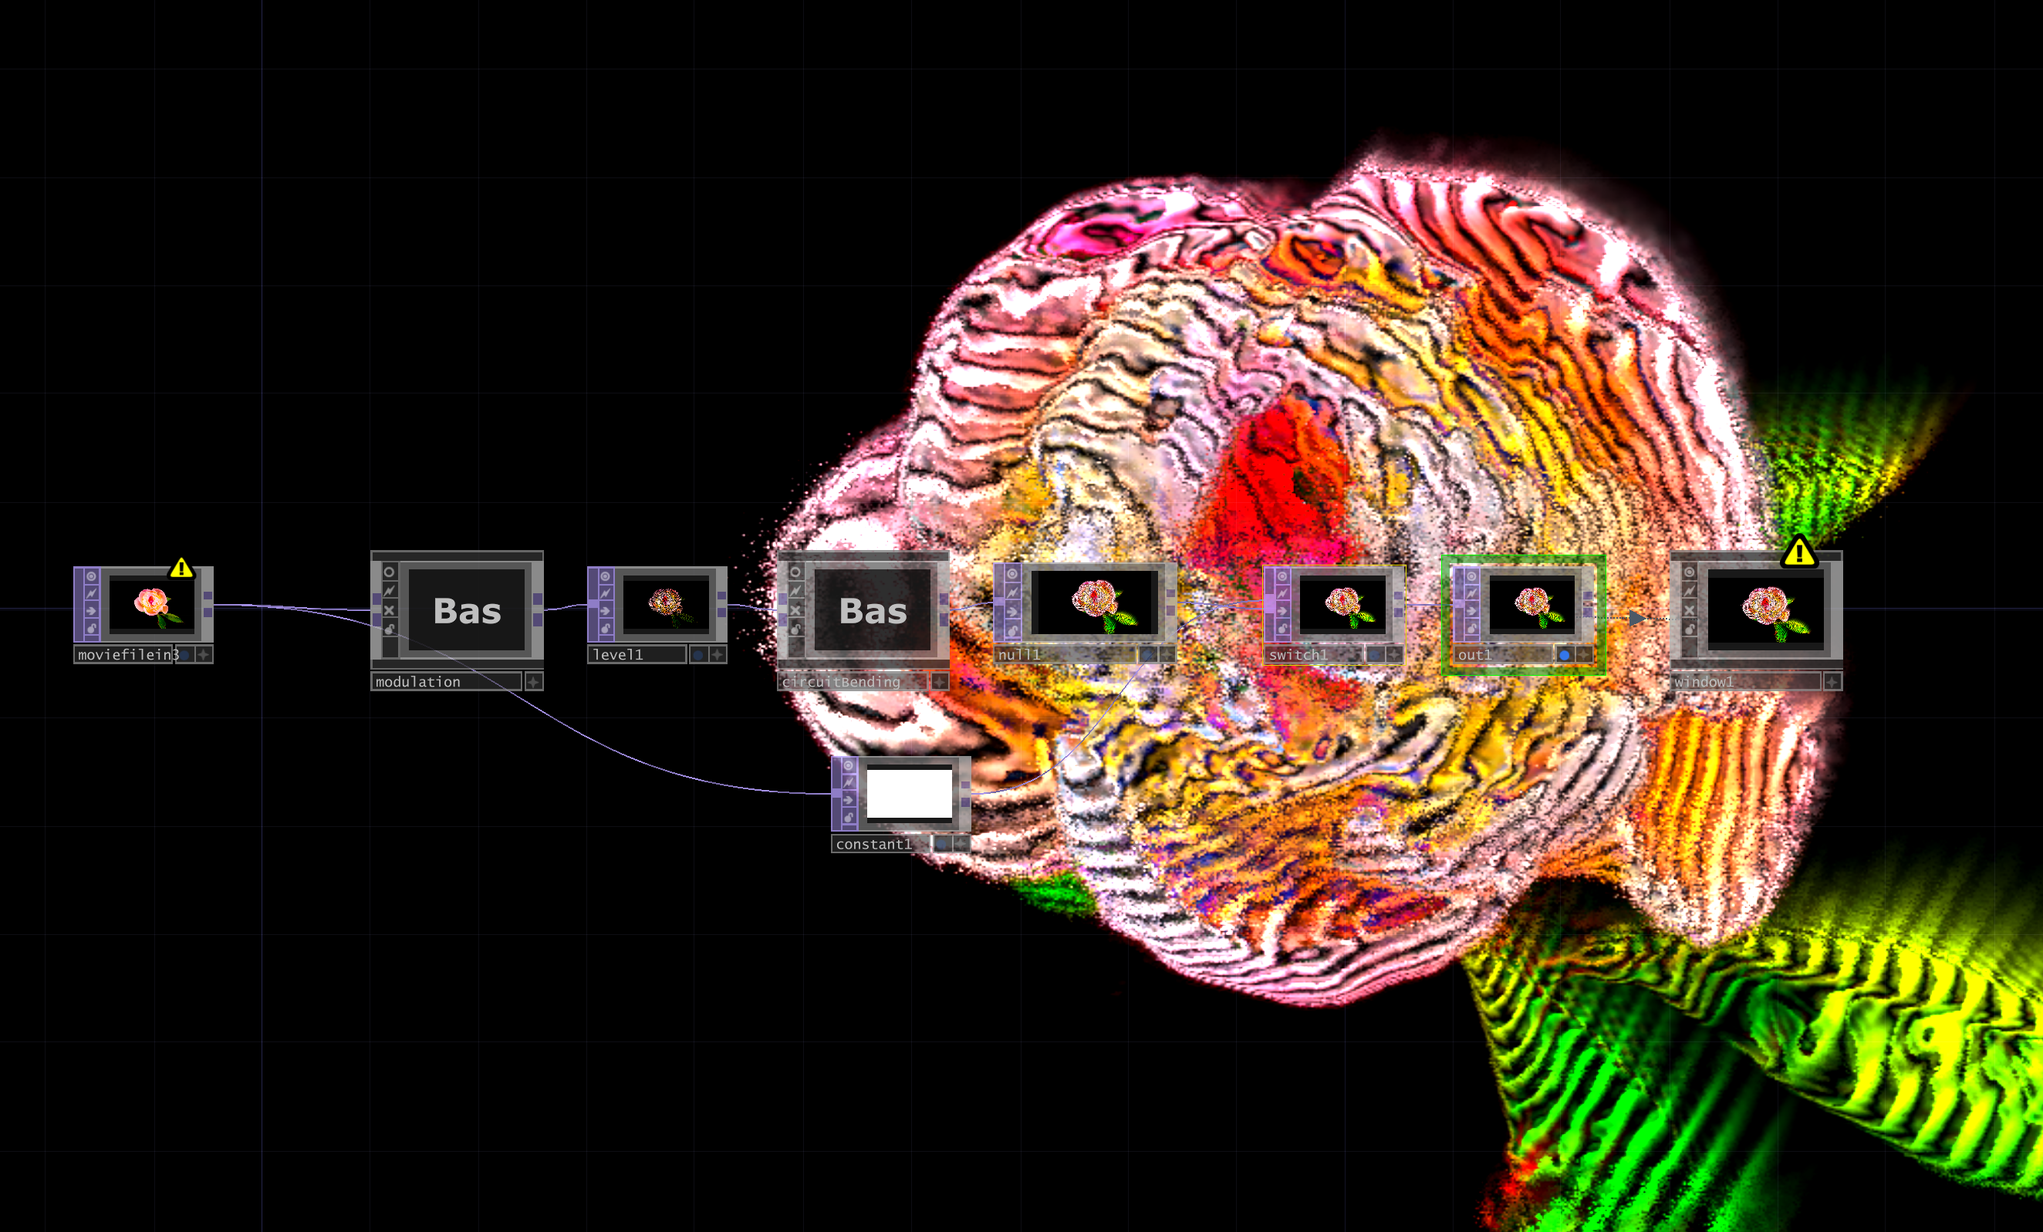
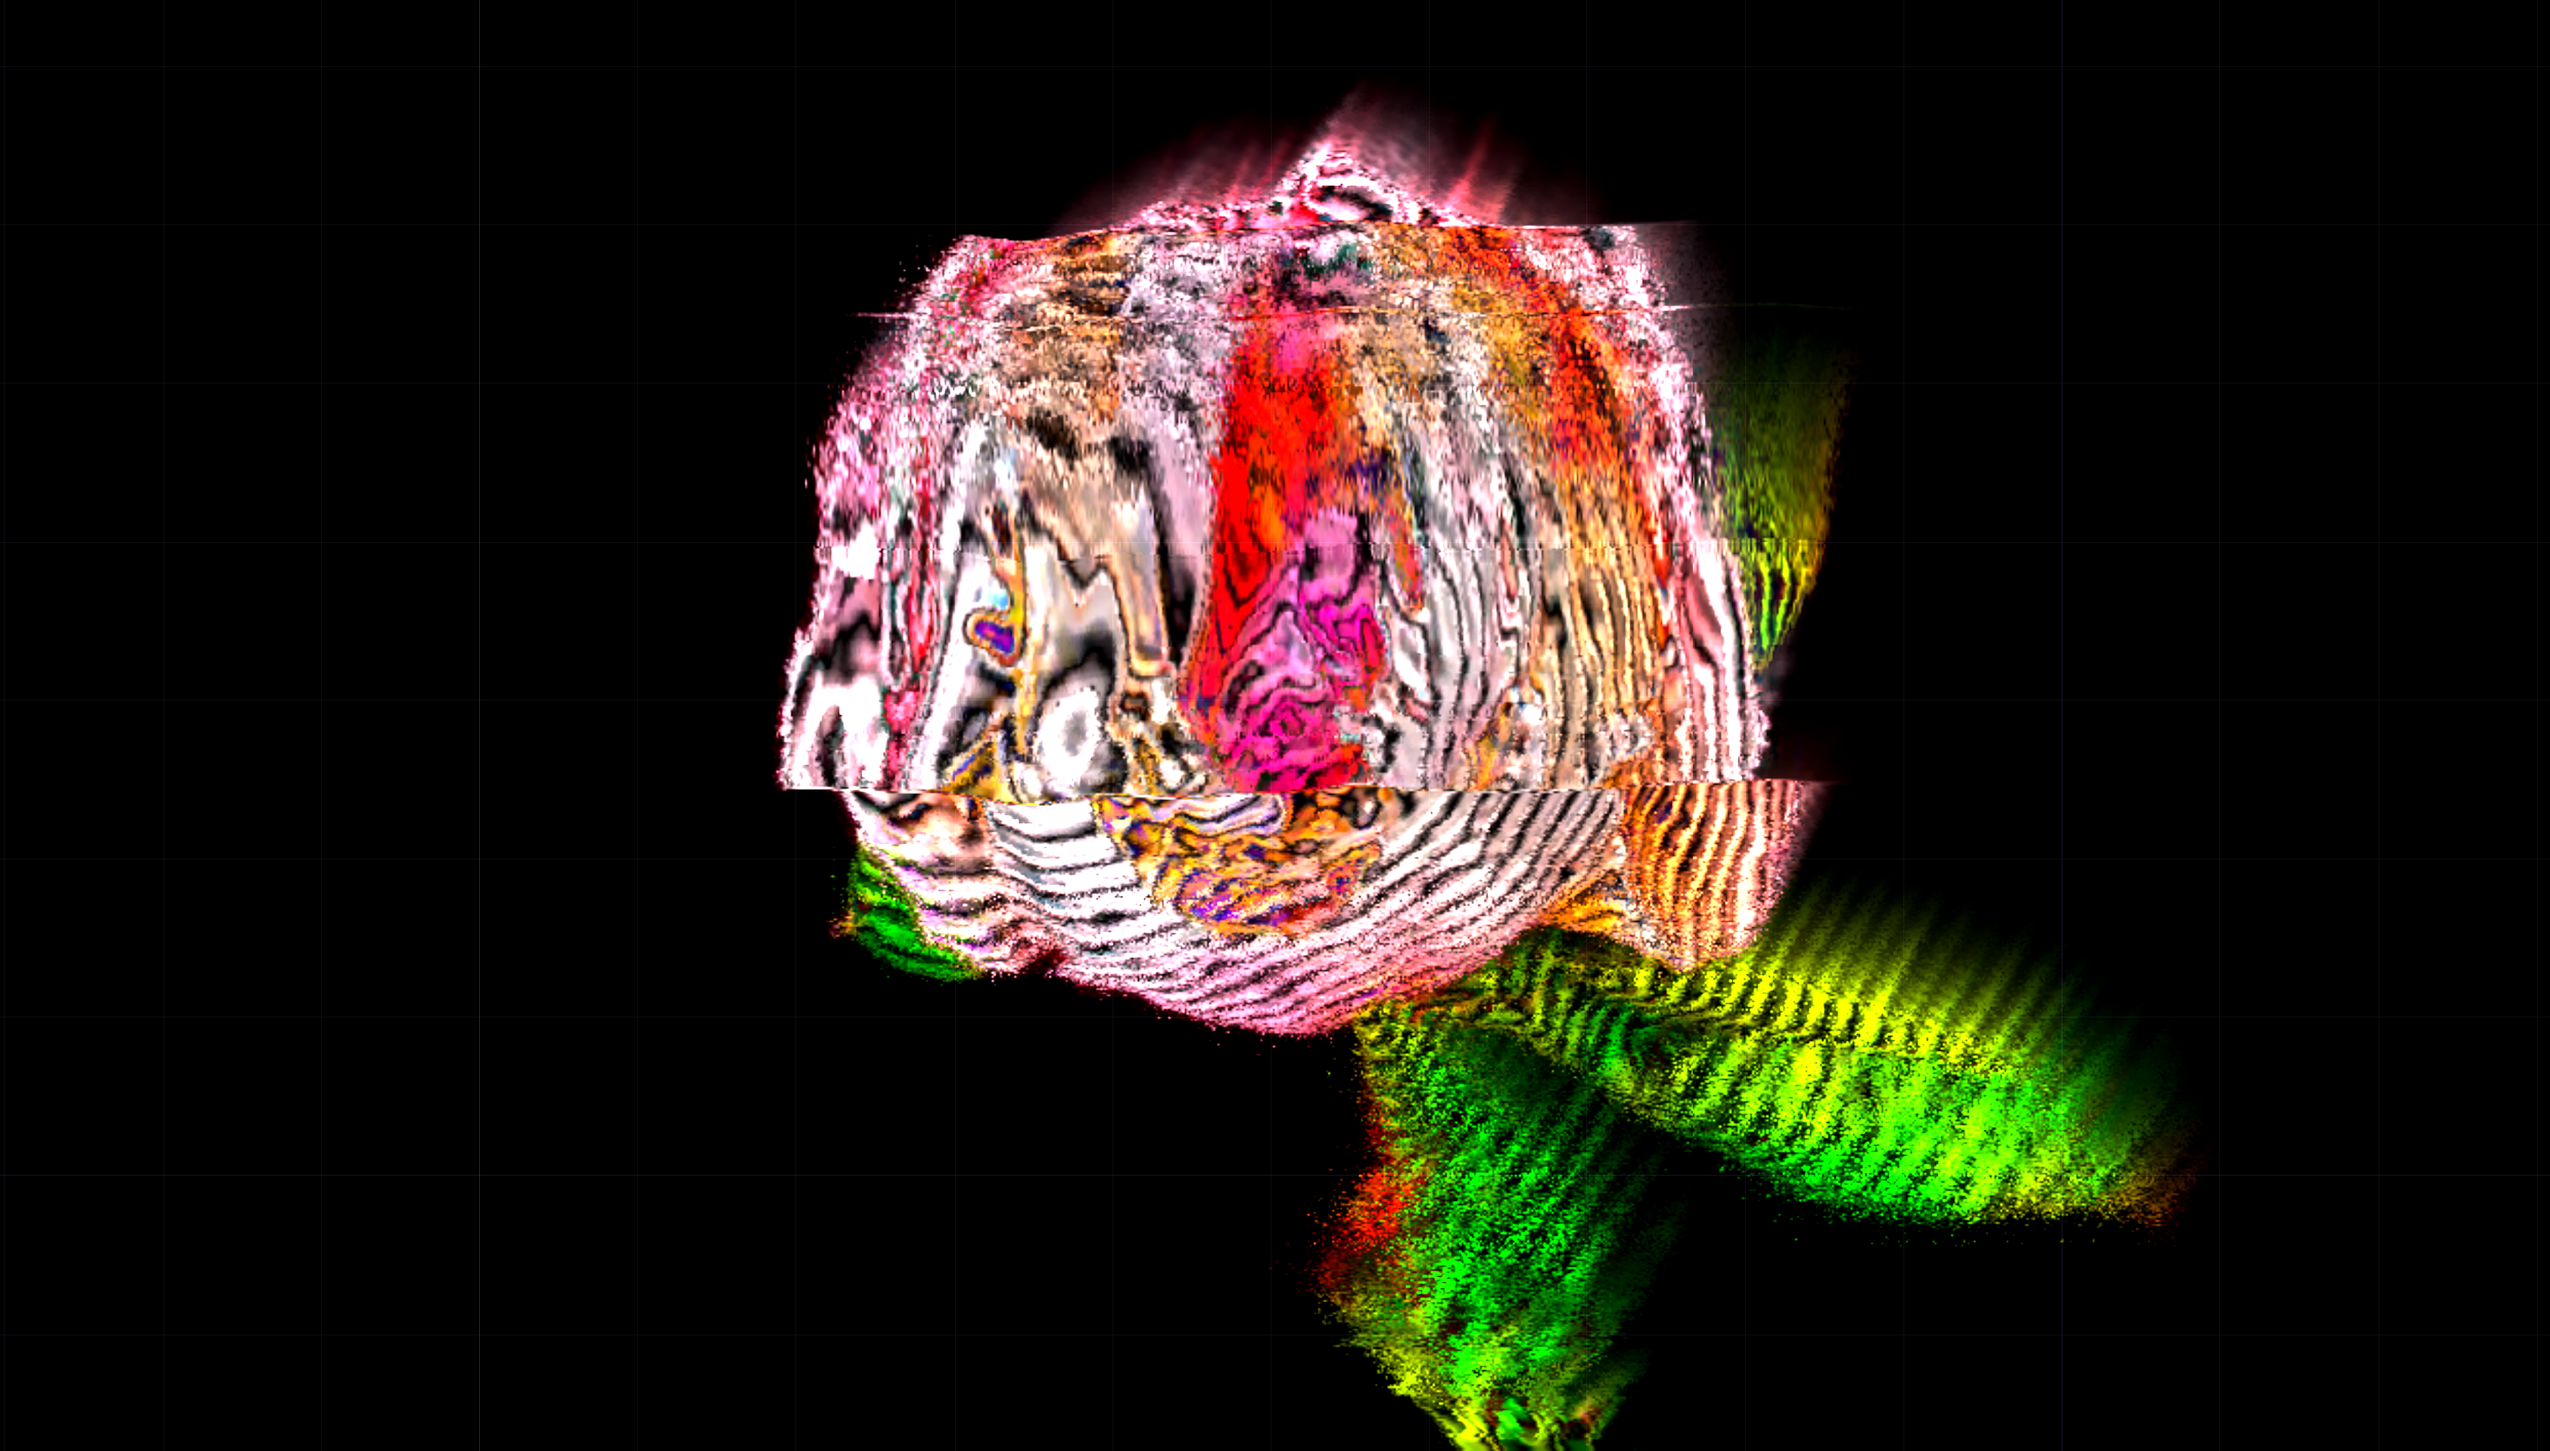
ywp and desc updates

diff --git a/index.html b/index.html
@@ -46,21 +46,84 @@
       </div>
     </a>
 
-    <a href="mag_layout.html" class="work-link">
-      <div class="work-card">
+    <a href="ywp.html" class="work-link">
+      <div class="work-card expand-card" style="--y: -22%;">
         <div class="work-header">
-          <span class="work-title">Generasian Magazine Layout</span>
+          <span class="work-title">Workforce Program Ad</span>
           <span class="work-type">
             Graphic
             <img src="icons/graphic_design.png" alt="" class="work-icon">
           </span>
         </div>
         <div class="work-image">
-          <img src="thumbnails/generasian.jpg" alt="generasian magazine layout">
+          <div class="inner-image">
+            <img src="thumbnails/ywp2.png" alt="ywp">
+          </div>
         </div>
         <div class="work-footer">
           <p class="work-description">
-            Spread for NYU's Generasian magazine made in Adobe Indesign.
+            Social media flyers made for a nonprofit youth workforce program.
+          </p>
+        </div>
+      </div>
+    </a>
+    
+
+    <a href="the_medium_is_the_massage.html" class="work-link">
+      <div class="work-card">
+        <div class="work-header">
+          <span class="work-title">The Medium is the Massage</span>
+          <span class="work-type">
+            Web
+            <img src="icons/web_page.png" alt="" class="work-icon">
+          </span>
+        </div>
+        <div class="work-image">
+          <img src="thumbnails/medium_is_the_massage.png" alt="medium_is_the_massage">
+        </div>
+        <div class="work-footer">
+          <p class="work-description">
+            Reactive website made with HTML, CSS, and JavaScript.
+          </p>
+        </div>
+      </div>
+    </a>
+
+  <a href="wholeearthOS.html" class="work-link">
+      <div class="work-card">
+        <div class="work-header">
+          <span class="work-title">WholeEarthOS</span>
+          <span class="work-type">
+            Web
+            <img src="icons/web_page.png" alt="" class="work-icon">
+          </span>
+        </div>
+        <div class="work-image">
+          <img src="thumbnails/macos.png" alt="WholeEarthOS">
+        </div>
+        <div class="work-footer">
+          <p class="work-description">
+            Recreation of early Macintosh interface made with HTML, CSS, and JavaScript.
+          </p>
+        </div>
+      </div>
+    </a>
+    
+    <a href="visions_of_light.html" class="work-link">
+      <div class="work-card">
+        <div class="work-header">
+          <span class="work-title">Visions of Light</span>
+          <span class="work-type">
+            Procedural
+            <img src="icons/td logo.png" alt="" class="work-icon">
+          </span>
+        </div>
+        <div class="work-image">
+          <img src="thumbnails/projproj.png" alt="visions of light">
+        </div>
+        <div class="work-footer">
+          <p class="work-description">
+            Procedural art piece made with TouchDesigner.
           </p>
         </div>
       </div>
@@ -87,7 +150,27 @@
         </div>
       </div>
     </a>
-    
+
+    <a href="photo_roman.html" class="work-link">
+      <div class="work-card">
+        <div class="work-header">
+          <span class="work-title">Photo Roman</span>
+          <span class="work-type">
+            Video
+            <img src="icons/video.png" alt="" class="work-icon">
+          </span>
+        </div>
+        <div class="work-image">
+          <img src="thumbnails/photoroman.png" alt="photoroman">
+        </div>
+        <div class="work-footer">
+          <p class="work-description">
+            Film from still images edited with Davinci Resolve.
+          </p>
+        </div>
+      </div>
+    </a>
+
     <a href="cafe_promo_poster.html" class="work-link">
       <div class="work-card expand-card" style="--y: -55%;">
         <div class="work-header">
@@ -132,46 +215,26 @@
       </div>
     </a>
 
-    <a href="the_medium_is_the_massage.html" class="work-link">
+    <a href="mag_layout.html" class="work-link">
       <div class="work-card">
         <div class="work-header">
-          <span class="work-title">The Medium is the Massage</span>
+          <span class="work-title">Generasian Magazine Layout</span>
           <span class="work-type">
-            Web
-            <img src="icons/web_page.png" alt="" class="work-icon">
+            Graphic
+            <img src="icons/graphic_design.png" alt="" class="work-icon">
           </span>
         </div>
         <div class="work-image">
-          <img src="thumbnails/medium_is_the_massage.png" alt="medium_is_the_massage">
+          <img src="thumbnails/generasian.jpg" alt="generasian magazine layout">
         </div>
         <div class="work-footer">
           <p class="work-description">
-            Reactive website made with HTML, CSS, and JavaScript.
+            Spread for NYU's Generasian magazine made in Adobe Indesign.
           </p>
         </div>
       </div>
     </a>
-
-  <a href="wholeearthOS.html" class="work-link">
-      <div class="work-card">
-        <div class="work-header">
-          <span class="work-title">WholeEarthOS</span>
-          <span class="work-type">
-            Web
-            <img src="icons/web_page.png" alt="" class="work-icon">
-          </span>
-        </div>
-        <div class="work-image">
-          <img src="thumbnails/macos.png" alt="WholeEarthOS">
-        </div>
-        <div class="work-footer">
-          <p class="work-description">
-            Recreation of early Macintosh interface made with HTML, CSS, and JavaScript.
-          </p>
-        </div>
-      </div>
-    </a>
-
+    
     <a href="to_make_an_omelette.html" class="work-link">
       <div class="work-card">
         <div class="work-header">
@@ -192,26 +255,7 @@
       </div>
     </a>
 
-    <a href="visions_of_light.html" class="work-link">
-      <div class="work-card">
-        <div class="work-header">
-          <span class="work-title">Visions of Light</span>
-          <span class="work-type">
-            Procedural
-            <img src="icons/td logo.png" alt="" class="work-icon">
-          </span>
-        </div>
-        <div class="work-image">
-          <img src="thumbnails/projproj.png" alt="visions of light">
-        </div>
-        <div class="work-footer">
-          <p class="work-description">
-            Procedural art piece made with TouchDesigner.
-          </p>
-        </div>
-      </div>
-    </a>
-
+  <!--
     <a href="diner_menu.html" class="work-link">
       <div class="work-card">
         <div class="work-header">
@@ -231,26 +275,7 @@
         </div>
       </div>
     </a>
-
-    <a href="photo_roman.html" class="work-link">
-      <div class="work-card">
-        <div class="work-header">
-          <span class="work-title">Photo Roman</span>
-          <span class="work-type">
-            Video
-            <img src="icons/video.png" alt="" class="work-icon">
-          </span>
-        </div>
-        <div class="work-image">
-          <img src="thumbnails/photoroman.png" alt="photoroman">
-        </div>
-        <div class="work-footer">
-          <p class="work-description">
-            Film from still images edited with Davinci Resolve.
-          </p>
-        </div>
-      </div>
-    </a>
+  -->
 
     <a href="fallout_room.html" class="work-link">
       <div class="work-card">
@@ -291,7 +316,7 @@
         </div>
       </div>
     </a>
-
+  <!--
     <a href="the_fridge.html" class="work-link">
       <div class="work-card">
         <div class="work-header">
@@ -311,7 +336,7 @@
         </div>
       </div>
     </a>
-
+  -->
     <a href="ways_of_seeing.html" class="work-link">
       <div class="work-card">
         <div class="work-header">

diff --git a/ywp.html b/ywp.html
@@ -1,0 +1,80 @@
+<!DOCTYPE html>
+<html lang="en">
+<head>
+  <meta charset="UTF-8" />
+  <title>Graphic Design Intensive – Alex Lee</title>
+  <link rel="icon" href="star.png">
+  <meta name="viewport" content="width=device-width, initial-scale=1.0" />
+  <link rel="preconnect" href="https://fonts.googleapis.com">
+  <link rel="preconnect" href="https://fonts.gstatic.com" crossorigin>
+  <link href="https://fonts.googleapis.com/css2?family=Roboto+Mono:ital,wght@0,100..700;1,100..700&display=swap" rel="stylesheet">
+  <link rel="stylesheet" href="styles.css" />
+</head>
+
+<body class="roboto-mono-regular">
+
+  <header id="header">
+    <a href="contact.html" class="contact-btn">Contact</a>
+  </header>
+
+  <a href="index.html" class="logo-container">
+    <img src="star.png" alt="Star" class="star">
+    <img src="portfolio_logo.png" alt="Portfolio Logo" style="position:relative;left:-13px;top:7px">
+  </a>
+
+  <main class="project-page">
+
+    <a href="index.html" class="back-btn">← Back to Portfolio</a>
+
+    <h1 class="project-title">Design Intensive Portfolio</h1>
+    <p class="project-meta">Graphic Design</p>
+
+    <a href="media/ywp/ywp1.png" class="new-tab-btn" target="_blank" rel="noopener noreferrer">Open in a new tab</a>
+
+    <div
+      class="image-switcher"
+      data-images="media/ywp/ywp1.png,media/ywp/ywp2.png,media/ywp/ywp3.png"
+    >
+      <div class="image-frame">
+        <img
+          id="projectImage"
+          src="media/ywp/ywp1.png"
+          alt="graphic design intensive"
+        >
+
+        <div class="gradient-overlay left"></div>
+        <div class="gradient-overlay right"></div>
+
+        <img src="switcher_arrow.png" class="arrow left-arrow">
+        <img src="switcher_arrow.png" class="arrow right-arrow">
+      </div>
+    </div>
+
+
+    <div class="project-description">
+      <p>
+        A series of promotional flyers for the nonprofit organization ASCENDtials' new youth workforce program. Directed at San Diego youth looking for career growth opportunities, I designed the flyers to be bold and to the point. I incorporated influences from digital collage to reflect the creative nature of the program.
+      </p>
+
+      <p>
+        Made with Canva.
+      </p>
+    </div>
+
+    
+    <div class="project-media">
+      <img src="media/ywp/pinterestboard.png" alt="Digital Collage Pinterest Board" style="height:auto;width:55vw;">
+    </div>
+
+    <div class="project-description">
+      <p>
+        A Pinterest board of digital collage works made for visual inspiration.
+      </p>
+
+    </div>
+
+  </main>
+
+  <script src="script.js"></script>
+</body>
+</html>

diff --git a/wholeearthOS.html b/wholeearthOS.html
@@ -37,7 +37,11 @@
 
     <div class="project-description">
       <p>
-        This webpage is a recreation of the desktop of the first Macintosh computer. Clicking the floppy disk icon opens windows and clicking the trash icon closes all windows. Windows can also be dragged around by the top and deleted by the top left. My inspiration for this came from reading a 1988 issue of the Whole Earth Catalog magazine, so I took screenshots of weird tech visuals from the magazine to show in the windows and tech-related terms mentioned for the window titles.
+        "We are as gods and might as well get good at it." - Whole Earth Catalogue
+      </p>
+
+      <p>
+        The Whole Earth Catalogue was an American countercultural magazine that ran from 1968 to 1998. Looking at an issue from 1988, the same year the Macintosh SE was released, I was captivated by the ideas of future technology from the past. I made this webpage as a recreation of the original Macintosh desktop. Clicking the floppy disk icon opens random windows with images from this magazine's issue, and they can be dragged and interacted with. The window titles are randomly selected from a list of the issue's tech-related terms.
       </p>
 
       <p>
